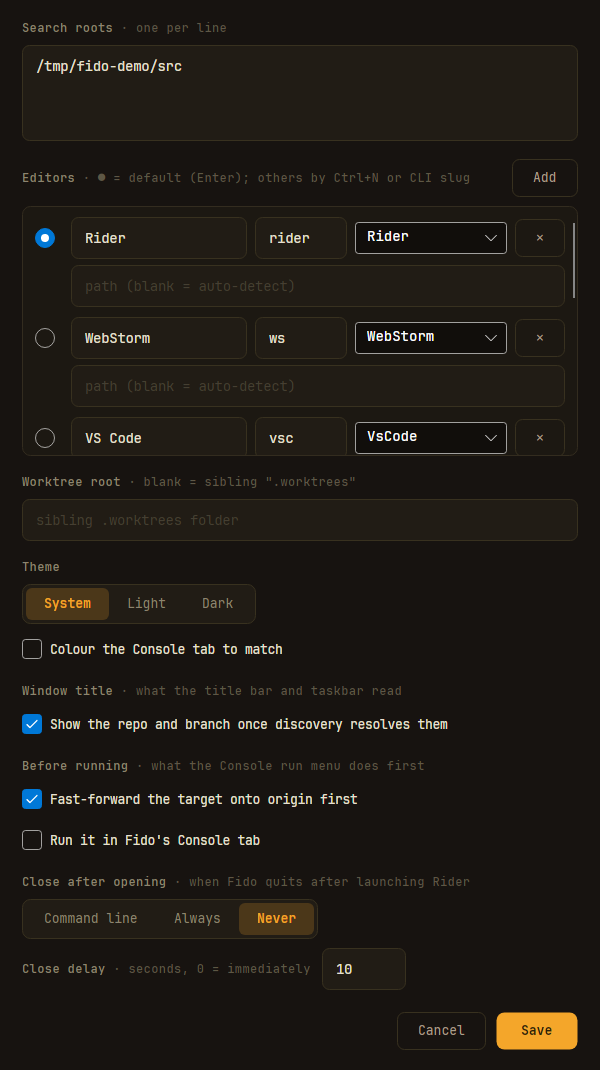
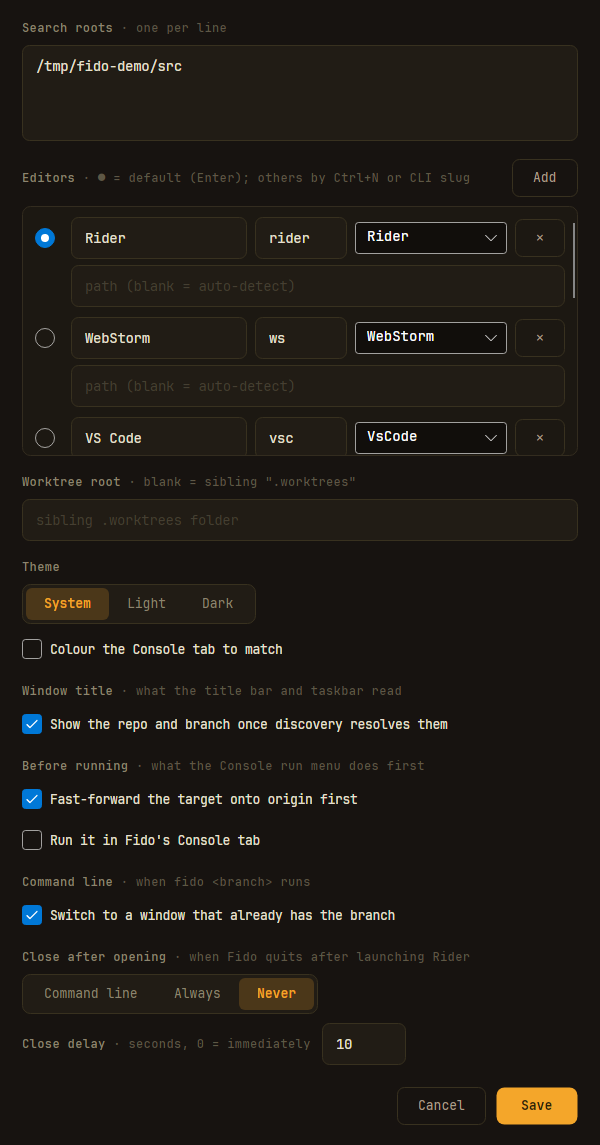
Add a setting for switching to an open window, and document it
Settings -> Command line -> "Switch to a window that already has the
branch" (on by default) turns the handoff off altogether: every launch
then opens its own window, as --new-window does for one. The launch reads
the setting as it starts, so a change applies from the next `fido` with no
restart. Program.HandOff takes the config and registry as arguments so the
launch's decision is tested: only with a branch, never with --new-window,
and not with the setting off.

Fix a race the new tests turned up: a window answered one caller at a
time and put its next pipe up only after tearing the last one down. Off
Windows a pipe is a socket, so a launch that connected in that moment was
dropped with the spent pipe and opened a window of its own - a second
`fido` straight after the first could miss. The next pipe instance now
goes up before the answered one comes down. A test firing 25 handoffs
back to back failed every time before this and passes now; 15 rapid real
launches under Xvfb were all taken.

Docs: the setting in the settings reference and its defaults, the command-
line guide, the home page's command-line card, the screenshots page, the
at-a-glance table, README and CHANGELOG. The settings dialog screenshots
are regenerated. The gallery now sizes the dialog to its content, as it
already did for the main window, because the dialog has outgrown the
1080-tall headless screen and the shot was cutting off Save and Cancel.
[…]

diff --git a/src/Services/InstanceHandoff.cs b/src/Services/InstanceHandoff.cs
@@ -98,8 +98,9 @@ internal sealed class InstanceHandoff
         }
     }
 
+    /// <summary>Two instances: the one answering a caller, and the next one, already listening.</summary>
     private static NamedPipeServerStream CreateServer(string pipeName) =>
-        new(pipeName, PipeDirection.InOut, 1, PipeTransmissionMode.Byte,
+        new(pipeName, PipeDirection.InOut, 2, PipeTransmissionMode.Byte,
             PipeOptions.Asynchronous | PipeOptions.CurrentUserOnly);
 
     /// <summary>One window's listener: its marker, and the loop answering whoever connects.</summary>
@@ -137,22 +138,34 @@ internal sealed class InstanceHandoff
                 try
                 {
                     await server.WaitForConnectionAsync(ct);
-                    await AnswerAsync(server, take, ct);
                 }
-                catch (OperationCanceledException) when (ct.IsCancellationRequested)
+                catch (Exception ex) when (ex is not OperationCanceledException)
                 {
-                    return;
-                }
-                catch (Exception)
-                {
-                    // A caller that hung up early or sent something unreadable costs its own answer, nothing
-                    // more. The pause keeps a pipe that fails straight away from spinning the loop.
+                    // This pipe instance is broken: put up a fresh one, after a pause so that one failing
+                    // straight away can't spin the loop.
+                    server.Dispose();
                     await Task.Delay(100, ct);
+                    server = CreateServer(pipeName);
+                    continue;
                 }
 
-                // One caller at a time: this pipe instance is spent, so put up a fresh one for the next.
-                server.Dispose();
-                server = CreateServer(pipeName);
+                // The next caller's pipe goes up before this one comes down, so something is always listening.
+                // Off Windows a pipe is a socket, and a caller that connected while only the spent one was up
+                // would be dropped along with it — a second `fido` right behind the first would open a window.
+                var next = CreateServer(pipeName);
+                try
+                {
+                    await AnswerAsync(server, take, ct);
+                }
+                catch (Exception ex) when (ex is not OperationCanceledException || !ct.IsCancellationRequested)
+                {
+                    // A caller that hung up early or sent something unreadable costs its own answer, nothing more.
+                }
+                finally
+                {
+                    server.Dispose();
+                    server = next;
+                }
             }
         }
         catch (OperationCanceledException) when (ct.IsCancellationRequested)

diff --git a/tests/Fido.Tests/Services/LaunchHandoffTests.cs b/tests/Fido.Tests/Services/LaunchHandoffTests.cs
@@ -1,0 +1,77 @@
+using System.IO;
+using Fido;
+using Fido.Models;
+using Fido.Services;
+
+namespace Fido.Tests.Services;
+
+/// <summary>
+/// The launch's decision whether to offer its command line to the open windows at all (see
+/// <see cref="Program.HandOff"/>): only with a branch, never with <c>--new-window</c>, and not at all with
+/// <see cref="AppConfig.SwitchToOpenWindow"/> off. A window that would take anything stands ready throughout,
+/// so a false answer is the launch declining to ask, not the window declining to take.
+/// </summary>
+public class LaunchHandoffTests
+{
+    private sealed class Rig : IDisposable
+    {
+        private readonly string _root = Path.Combine(Path.GetTempPath(), "fido-launch-tests", Guid.NewGuid().ToString("N"));
+        private readonly IDisposable? _window;
+
+        public Rig(bool switchToOpenWindow = true)
+        {
+            Config = new ConfigService(Path.Combine(_root, "config"));
+            Config.Save(new AppConfig { SwitchToOpenWindow = switchToOpenWindow });
+            Instances = new InstanceHandoff(Path.Combine(_root, "instances"));
+            _window = Instances.Listen(_ => Task.FromResult(true));
+        }
+
+        public ConfigService Config { get; }
+        public InstanceHandoff Instances { get; }
+
+        public bool Launch(params string[] args) => Program.HandOff(args, Config, Instances);
+
+        public void Dispose()
+        {
+            _window?.Dispose();
+            try { Directory.Delete(_root, recursive: true); }
+            catch (IOException) { }
+        }
+    }
+
+    [Test]
+    public async Task A_branch_is_handed_to_a_window_that_takes_it()
+    {
+        using var rig = new Rig();
+
+        await Assert.That(rig.Launch("feature/x")).IsTrue();
+        await Assert.That(rig.Launch("-b", "feature/x", "-t", "rider")).IsTrue();
+    }
+
+    [Test]
+    public async Task With_the_setting_off_every_launch_opens_its_own_window()
+    {
+        using var rig = new Rig(switchToOpenWindow: false);
+
+        await Assert.That(rig.Launch("feature/x")).IsFalse();
+    }
+
+    [Test]
+    public async Task New_window_opens_its_own_whatever_the_setting()
+    {
+        using var rig = new Rig();
+
+        await Assert.That(rig.Launch("feature/x", "--new-window")).IsFalse();
+        await Assert.That(rig.Launch("-n", "feature/x")).IsFalse();
+    }
+
+    [Test]
+    public async Task A_command_line_without_a_branch_is_never_offered()
+    {
+        using var rig = new Rig();
+
+        await Assert.That(rig.Launch()).IsFalse();
+        await Assert.That(rig.Launch("-t", "rider")).IsFalse();
+        await Assert.That(rig.Launch("  ")).IsFalse();
+    }
+}

diff --git a/src/ViewModels/SettingsViewModel.cs b/src/ViewModels/SettingsViewModel.cs
@@ -16,6 +16,7 @@ public sealed class SettingsViewModel : ObservableObject
     private AppTheme _selectedTheme = AppTheme.System;
     private bool _showTargetInWindowTitle = true;
     private bool _pullBeforeRun = true;
+    private bool _switchToOpenWindow = true;
     private bool _runInFido;
     private bool _consoleUsesFidoPalette;
     private CloseAfterOpen _closeAfterOpen = CloseAfterOpen.CommandLine;
@@ -105,6 +106,14 @@ public sealed class SettingsViewModel : ObservableObject
     {
         get => _showTargetInWindowTitle;
         set => SetField(ref _showTargetInWindowTitle, value);
+    }
+
+    /// <summary>Whether <c>fido &lt;branch&gt;</c> switches to a window already open on the branch;
+    /// unticked, every launch opens its own window.</summary>
+    public bool SwitchToOpenWindow
+    {
+        get => _switchToOpenWindow;
+        set => SetField(ref _switchToOpenWindow, value);
     }
 
     /// <summary>Whether a pick from the Console run menu fast-forwards the target first;
@@ -201,6 +210,7 @@ public sealed class SettingsViewModel : ObservableObject
         PullBeforeRun = config.PullBeforeRun;
         RunInFido = config.RunInFido;
         ConsoleUsesFidoPalette = config.ConsoleUsesFidoPalette;
+        SwitchToOpenWindow = config.SwitchToOpenWindow;
         CloseAfterOpen = config.CloseAfterOpen;
         CloseAfterOpenDelayText = config.CloseAfterOpenDelaySeconds.ToString(CultureInfo.InvariantCulture);
     }
@@ -223,6 +233,7 @@ public sealed class SettingsViewModel : ObservableObject
         config.PullBeforeRun = PullBeforeRun;
         config.RunInFido = RunInFido;
         config.ConsoleUsesFidoPalette = ConsoleUsesFidoPalette;
+        config.SwitchToOpenWindow = SwitchToOpenWindow;
         config.CloseAfterOpen = CloseAfterOpen;
         config.CloseAfterOpenDelaySeconds = ParseDelaySeconds(CloseAfterOpenDelayText);
         // config.NewBranchRepos is deliberately left untouched: the redesigned main screen no longer

diff --git a/src/Program.cs b/src/Program.cs
@@ -18,19 +18,23 @@ internal static class Program
         BuildAvaloniaApp().StartWithClassicDesktopLifetime(args);
     }
 
+    private static bool HandedOff(string[] args) =>
+        HandOff(args, new ConfigService(), InstanceHandoff.ForCurrentUser());
+
     /// <summary>
     /// True when a Fido window that already has this command line's branch took it over: that window has come
-    /// to the front, and this launch has nothing left to do. Only a command line naming a branch is offered,
-    /// and never one with <c>--new-window</c>. Anything going wrong just means opening a window of our own.
+    /// to the front, and this launch has nothing left to do. Only a command line naming a branch is offered —
+    /// never one with <c>--new-window</c>, and not at all with <see cref="AppConfig.SwitchToOpenWindow"/> off.
+    /// Anything going wrong just means opening a window of our own. Blocks, which is safe before any UI exists
+    /// — there is no synchronisation context yet to deadlock on.
     /// </summary>
-    private static bool HandedOff(string[] args)
+    internal static bool HandOff(IReadOnlyList<string> args, ConfigService configService, InstanceHandoff? instances)
     {
         var command = StartupCommand.Parse(args);
-        if (string.IsNullOrWhiteSpace(command.Branch) || command.NewWindow) return false;
+        if (string.IsNullOrWhiteSpace(command.Branch) || command.NewWindow || instances is null) return false;
         try
         {
-            // No UI and no synchronisation context yet, so blocking here can't deadlock.
-            return InstanceHandoff.ForCurrentUser()?.TryHandOffAsync(args).GetAwaiter().GetResult() == true;
+            return configService.Load().SwitchToOpenWindow && instances.TryHandOffAsync(args).GetAwaiter().GetResult();
         }
         catch (Exception)
         {

diff --git a/tests/Fido.Tests/E2E/GalleryScreenshotTests.cs b/tests/Fido.Tests/E2E/GalleryScreenshotTests.cs
@@ -207,6 +207,7 @@ public class GalleryScreenshotTests
                 var dialog = new SettingsDialog(config, configService);
                 var shown = dialog.ShowDialog(owner);
                 UiTestExtensions.Pump();
+                FitDialogToContent(dialog);
                 Screenshots.Save(dialog, $"settings-dialog-{suffix}");
                 dialog.Close(false);
                 await shown;
@@ -249,6 +250,21 @@ public class GalleryScreenshotTests
             // something sets it, so adding to it would only ever produce NaN.
             window.Height = window.Bounds.Height + Math.Ceiling(overflow);
         }
+    }
+
+    /// <summary>
+    /// The settings dialog's counterpart to <see cref="FitWindowToContent"/>. It sizes to its content too, and
+    /// is clamped to the same 1080-tall headless screen — but it has no scroller of its own, so once its
+    /// settings outgrow that, the clamp slices Save and Cancel off the bottom of the shot. Measured without a
+    /// height limit and sized to match, it's shown whole, as a screen with room for it shows it.
+    /// </summary>
+    private static void FitDialogToContent(Window dialog)
+    {
+        if (dialog.Content is not Control content) return;
+        content.Measure(new Avalonia.Size(dialog.Bounds.Width, double.PositiveInfinity));
+        dialog.SizeToContent = SizeToContent.Manual;   // else the screen clamp undoes the growth
+        dialog.Height = Math.Ceiling(content.DesiredSize.Height);
+        UiTestExtensions.Pump();
     }
 
     /// <summary>

diff --git a/tests/Fido.Tests/Dialogs/SettingsDialogTests.cs b/tests/Fido.Tests/Dialogs/SettingsDialogTests.cs
@@ -102,6 +102,30 @@ public class SettingsDialogTests
     }
 
     [Test]
+    public async Task Save_persists_the_switch_to_an_open_window_option()
+    {
+        using var world = new TestRepoWorld();
+        var (service, config, dir) = NewConfig(world);
+        await Assert.That(config.SwitchToOpenWindow).IsTrue();   // on out of the box
+
+        await Harness.OnUi(async owner =>
+        {
+            var dialog = new SettingsDialog(config, service);
+            var resultTask = dialog.ShowDialog(owner);
+            UiTestExtensions.Pump();
+
+            dialog.SetChecked("SwitchToOpenWindowCheck", false);   // untick the real box
+
+            dialog.ClickButton("SaveButton");
+            await resultTask;
+            App.ApplyTheme(AppTheme.System);
+        });
+
+        var reloaded = new ConfigService(dir).Load();
+        await Assert.That(reloaded.SwitchToOpenWindow).IsFalse();
+    }
+
+    [Test]
     public async Task Cancel_discards_edits()
     {
         using var world = new TestRepoWorld();

diff --git a/tests/Fido.Tests/Services/InstanceHandoffTests.cs b/tests/Fido.Tests/Services/InstanceHandoffTests.cs
@@ -57,6 +57,26 @@ public class InstanceHandoffTests
     }
 
     [Test]
+    public async Task Launches_back_to_back_are_all_taken_by_the_same_window()
+    {
+        // The window answers one caller at a time. Something has to be listening in between: off Windows a
+        // caller that connects in a gap lands on the pipe being torn down, and is dropped with it.
+        var handoff = NewRegistry();
+        var taken = 0;
+        using var registration = handoff.Listen(_ => { Interlocked.Increment(ref taken); return Task.FromResult(true); });
+        try
+        {
+            for (var i = 0; i < 25; i++)
+                await Assert.That(await handoff.TryHandOffAsync(["feature/x"])).IsTrue();
+            await Assert.That(taken).IsEqualTo(25);
+        }
+        finally
+        {
+            Cleanup(handoff);
+        }
+    }
+
+    [Test]
     public async Task A_window_that_declines_leaves_the_launch_to_open_its_own()
     {
         var handoff = NewRegistry();

diff --git a/src/Models/AppConfig.cs b/src/Models/AppConfig.cs
@@ -112,6 +112,15 @@ public sealed class AppConfig
     /// </summary>
     public bool ConsoleUsesFidoPalette { get; set; }
 
+    /// <summary>
+    /// Whether <c>fido &lt;branch&gt;</c> switches to a Fido window already open on that branch — bringing it to
+    /// the front and running there whatever else the command line asked for — instead of opening a second
+    /// window on it (see <c>InstanceHandoff</c>). Default on. Off, every launch opens its own window, as
+    /// <c>--new-window</c> does for a single one. Read by the launch, so a change applies from the next launch
+    /// on. A config written before this setting existed has no entry for it and so keeps the default.
+    /// </summary>
+    public bool SwitchToOpenWindow { get; set; } = true;
+
     /// <summary>When Fido closes itself after a successful launch; defaults to command-line launches only.</summary>
     public CloseAfterOpen CloseAfterOpen { get; set; } = CloseAfterOpen.CommandLine;
 

diff --git a/tests/Fido.Tests/Services/ConfigServiceTests.cs b/tests/Fido.Tests/Services/ConfigServiceTests.cs
@@ -177,6 +177,7 @@ public class ConfigServiceTests
 
         await Assert.That(loaded.ShowTargetInWindowTitle).IsTrue();
         await Assert.That(loaded.PullBeforeRun).IsTrue();
+        await Assert.That(loaded.SwitchToOpenWindow).IsTrue();
         await Assert.That(loaded.Theme).IsEqualTo(AppTheme.Dark);   // the rest of the file still read
     }
 
@@ -198,5 +199,15 @@ public class ConfigServiceTests
         svc.Save(new AppConfig { PullBeforeRun = false });
 
         await Assert.That(svc.Load().PullBeforeRun).IsFalse();
+    }
+
+    [Test]
+    public async Task Turning_the_switch_to_an_open_window_off_survives_a_save_and_load_round_trip()
+    {
+        using var world = new TestRepoWorld();
+        var svc = InTempDir(world);
+        svc.Save(new AppConfig { SwitchToOpenWindow = false });
+
+        await Assert.That(svc.Load().SwitchToOpenWindow).IsFalse();
     }
 }

diff --git a/tests/Fido.Tests/ViewModels/SettingsViewModelTests.cs b/tests/Fido.Tests/ViewModels/SettingsViewModelTests.cs
@@ -95,6 +95,24 @@ public class SettingsViewModelTests
     }
 
     [Test]
+    public async Task SwitchToOpenWindow_round_trips_through_load_and_apply()
+    {
+        var vm = new SettingsViewModel();
+        vm.LoadFrom(new AppConfig());   // on by default
+
+        await Assert.That(vm.SwitchToOpenWindow).IsTrue();
+
+        vm.SwitchToOpenWindow = false;   // unticking the box
+
+        var cfg = new AppConfig();
+        vm.ApplyTo(cfg);
+        await Assert.That(cfg.SwitchToOpenWindow).IsFalse();
+
+        vm.LoadFrom(cfg);                // and a config with it off loads unticked
+        await Assert.That(vm.SwitchToOpenWindow).IsFalse();
+    }
+
+    [Test]
     public async Task PullBeforeRun_round_trips_through_load_and_apply()
     {
         var vm = new SettingsViewModel();

diff --git a/docs/reference/at-a-glance.md b/docs/reference/at-a-glance.md
@@ -21,7 +21,7 @@ description: Every capability in one table.
 | In-repo config | `.fido/cfg.yaml` on the branch: **prefer main clone** and **commands** — an ordered list of command lines, offered as a run menu on the **Console** button *and* on the **Console tab**. Created (or opened) from the **OPEN** strip, seeded at its defaults and never overwritten |
 | Console tab | Fido's own terminal beside the **Flight log**, at the selected location: a real shell over a real pseudo-terminal — colour, prompts, **Ctrl+C**, and a live prompt still there when a script fails. Its **Run** menu leads with **shell here**, then the branch's commands; a run never closes Fido. **Ctrl+Click** follows an `http`/`https` link in the output, and the flight log names what opened |
 | Editor discovery | Explicit path → PATH → standard installs (per kind) |
-| CLI | `fido <branch> [tool]` — auto-opens only for an explicitly named tool with exactly one location; switches to a window **already open on the branch** instead of opening another (`--new-window` to opt out) |
+| CLI | `fido <branch> [tool]` — auto-opens only for an explicitly named tool with exactly one location; switches to a window **already open on the branch** instead of opening another (`--new-window` for one launch, or a setting to turn it off) |
 | Window title | Once a branch resolves, the title reads `<repo> · <branch>` — no "Fido" in front, following the selected card; switchable off in Settings |
 | Theme | **System / Light / Dark** in Settings, plus a **sun/moon toggle** left of the gear that flips light ↔ dark **for this run only** — the saved default, and the next launch, are untouched |
 | Config | `%APPDATA%\Fido\config.json` (migrates the legacy folder), plus the repo's own `.fido/cfg.yaml` on the branch |

diff --git a/docs/reference/settings.md b/docs/reference/settings.md
@@ -43,6 +43,12 @@ Reach these via ⚙ → **All settings…**.
       **[Fido's own Console tab](../guide/console.md)** instead — a real shell over a real pseudo-terminal,
       beside the flight log. It governs that button's menu only: the Console **button itself** always opens
       your terminal, and the Console **tab's** own Run menu always runs in the pane.
+- **Command line** — **Switch to a window that already has the branch** *(default on)*. On, `fido <branch>`
+  brings the Fido window already open on that branch to the front instead of opening a second, and runs
+  anything else the command line asked for — a tool, `-s`, `--folder` — there (see
+  **[A window that already has the branch](../guide/command-line.md#a-window-that-already-has-the-branch)**).
+  Untick it and every launch opens its own window; `--new-window` does the same for a single launch. Takes
+  effect from the next launch.
 - **Close after opening** — when Fido quits after a successful launch: **Command line** *(default —
   only when started with a branch on the command line)*, **Always** (after every launch, including
   the on-screen buttons), or **Never** (turns auto-close off).
@@ -58,6 +64,7 @@ Reach these via ⚙ → **All settings…**.
   `%USERPROFILE%\RiderProjects`, `%USERPROFILE%\Projects`.
 - **Default branch names:** `main`, `master` (never offered for deletion).
 - **Search depth:** 4.
+- **Command line:** `fido <branch>` switches to a window already open on the branch.
 - **Close after opening:** command-line launches only, with a **10-second** close delay.
 - **Window title:** shows `<repo> · <branch>` once discovery resolves.
 - **Console tab colours:** the terminal's own scheme; Fido's palette is opt-in.
